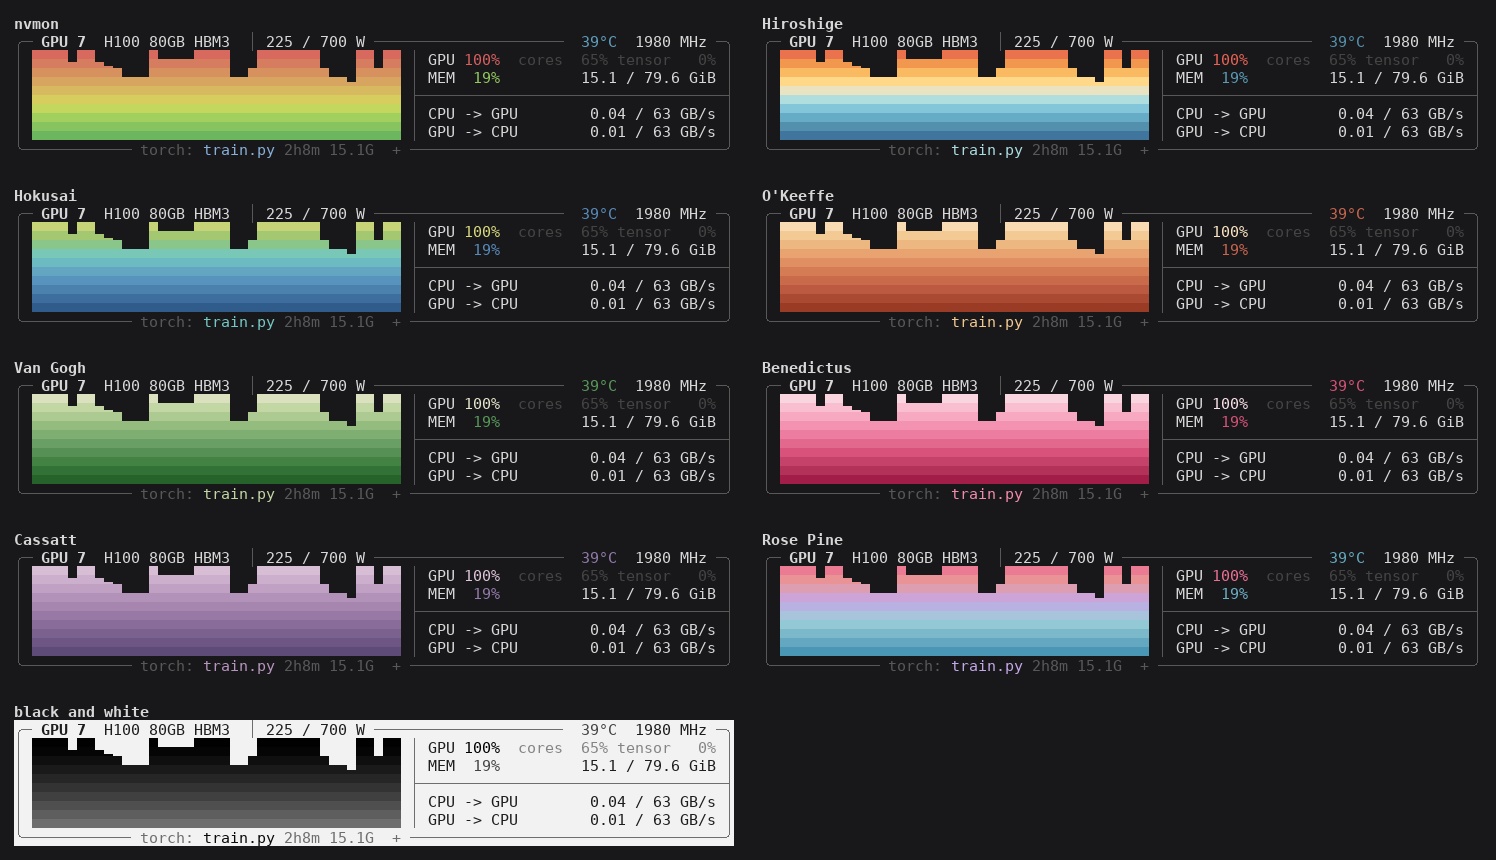
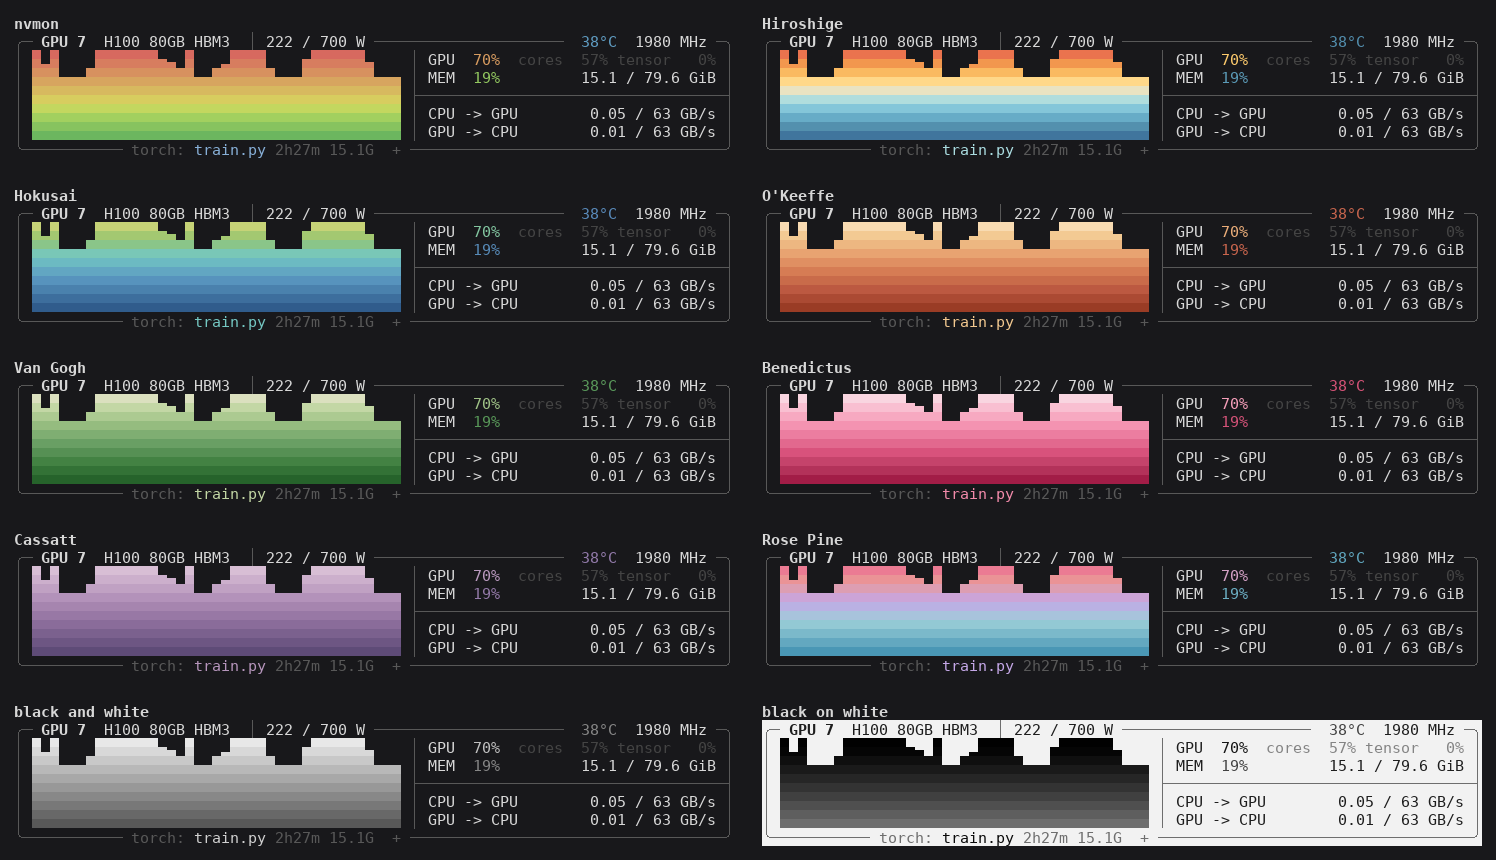
Black and white as it was, black on white a theme of its own; README: eight graphs in two columns

diff --git a/nvmon.py b/nvmon.py
@@ -83,8 +83,8 @@ def _nearest256(rgb):
 
 
 # Styles are written in 24-bit color and turned, as they are sent (restyle), into what the terminal shows:
-# 24-bit color or 256 colors, as color_mode finds; in gray, as the black and white theme has it: the GPU boxes
-# black on white (panel marks their styles with ON_PAPER), the rest gray on the terminal's own background.
+# 24-bit color or 256 colors, as color_mode finds; in gray, as the black and white themes have it, and for
+# black on white the GPU boxes on white (panel marks their styles with ON_PAPER).
 PAPER, INK = (242, 242, 242), (30, 30, 30)
 ON_PAPER = "\x1b[48;2;242;242;242m"
 COLOR_ARG = re.compile(r"\x1b\[([34])8;(?:2;(\d+);(\d+);(\d+)|5;(\d+))m")
@@ -183,10 +183,11 @@ class Theme(NamedTuple):
     temp: tuple       # style codes for 0 .. 100 °C
     accent: str
     selected: str     # the picked job: reverse video on the accent
-    gray: bool        # black on white: see restyle
+    gray: bool        # every color the gray of its lightness: see restyle
+    paper: bool       # and the GPU boxes black on white
 
 
-def theme(name, stops, accent, temp=None, gray=False):
+def theme(name, stops, accent, temp=None, gray=False, paper=False):
     """A Theme. `stops`, low to high, are (position, (r, g, b)) pairs, or "#rrggbb ..." colors, which are
     placed by how different they look (OKLab distance) so that equal steps in % look about equally big.
     Temperature takes the same colors over 30-88 °C, unless `temp` has stops of its own."""
@@ -199,7 +200,8 @@ def theme(name, stops, accent, temp=None, gray=False):
     heat_of_temp = _gradient(temp or [(30 + 0.58 * x, c) for x, c in stops])
     accent = accent if accent.startswith("\x1b") else _rgb(tuple(bytes.fromhex(accent[1:])))
     return Theme(name, tuple(map(_rgb, scale)), tuple(_rgb(_readable(c)) for c in scale),
-                 tuple(_rgb(_readable(c)) for c in heat_of_temp), accent, "\x1b[7m" + accent, gray)
+                 tuple(_rgb(_readable(c)) for c in heat_of_temp), accent, "\x1b[7m" + accent,
+                 gray or paper, paper)
 
 
 GREEN, YELLOW, ORANGE, RED = (95, 175, 95), (215, 215, 95), (215, 135, 95), (215, 95, 95)
@@ -222,8 +224,10 @@ THEMES = [
     theme("Cassatt", "#574571 #90719f #b695bc #dec5da", "#b695bc"),
     theme("Rose Pine", "#3e8fb0 #9ccfd8 #c4a7e7 #ea9a97 #eb6f92", "#c4a7e7"),
 ]
-# No hue, only lightness, black on white (see restyle): the lightest when idle, near black when busy.
-THEMES.append(theme("black and white", "#505050 #f0f0f0", "#d0d0d0", gray=True))
+# No hue, only lightness (see restyle): dark gray when idle to near white when busy; and the same black on
+# white, the lightest when idle to near black when busy.
+THEMES += [theme("black and white", "#505050 #f0f0f0", "#d0d0d0", gray=True),
+           theme("black on white", "#505050 #f0f0f0", "#d0d0d0", paper=True)]
 THEME = THEMES[0]  # the one in use, set by View.screen before it draws
 SHOWS = "truecolor"  # what the terminal shows (color_mode), set with it
 # Warnings on the top edge, the same in every theme: yellow = worth a look, orange = slowed, red = act.
@@ -1063,7 +1067,7 @@ def panel(gpu, width, height, selected=None, left="graph", scroll=(0, 0)):
     lines = [top] + body + [bottom_edge(width, split, label)]
     if faded:
         lines = [[(seg[0], FADED + (seg[1] if seg[1] != BOLD else "")) + seg[2:] for seg in line] for line in lines]
-    if THEME.gray:  # black on white, see restyle
+    if THEME.paper:  # black on white, see restyle
         lines = [[(seg[0], ON_PAPER + seg[1]) + seg[2:] for seg in line] for line in lines]
     return lines
 

diff --git a/docs/demo.py b/docs/demo.py
@@ -39,7 +39,8 @@ def numbers(view):
 
 # (file, columns, rows, what is set on the view). The cards' windows are as narrow as the cards, as a window
 # kept beside another; the numbers' window too short for all eight, the brief ones' just tall enough.
-STILLS = [("view-processes.png", 160, 31, lambda view: setattr(view, "left", "processes")),
+STILLS = [("view-graphs.png", 160, 31, lambda view: None),  # too short for eight one under the other
+          ("view-processes.png", 160, 31, lambda view: setattr(view, "left", "processes")),
           ("view-numbers.png", nvmon.CARD_W, 31, numbers),
           ("view-brief.png", nvmon.CARD_W, 8 * (nvmon.MIN_INNER_H + 2) + 2,
            lambda view: setattr(view, "left", "brief")),

diff --git a/README.md b/README.md
@@ -47,7 +47,9 @@ and the keys; a newer release, when there is one, with the command that updates 
 `v` goes through four views, `V` back. What does not fit the window scrolls (wheel, PgUp/PgDn).
 
 **Graphs**, as above: one under the other, two side by side only when they would not all fit, and in a
-small window shorter.
+small window shorter. The same eight GPUs in a window 31 lines tall:
+
+![nvmon with eight graphs in two columns](https://raw.githubusercontent.com/Han-DongHeun/nvmon/main/docs/view-graphs.png)
 
 **Processes** in the graph's place, one a line: account, run time, memory, and the command line. The
 wheel over them scrolls them up and down; tilted, or with Shift, sideways, as do ← and →.
@@ -87,7 +89,8 @@ The same job with `f`, its GPUs only:
 
 `c` goes through the themes, `C` back: nvmon's own; palettes from works by Hiroshige, Hokusai, O'Keeffe,
 Van Gogh, Bénédictus and Cassatt (as [MetBrewer](https://github.com/BlakeRMills/MetBrewer) has them);
-the [Rosé Pine](https://rosepinetheme.com) theme's; and black on white.
+the [Rosé Pine](https://rosepinetheme.com) theme's; black and white, grays as light as the colors; and
+black on white, the boxes on white, the busiest bars the darkest.
 
 ![nvmon's themes, one box in each](https://raw.githubusercontent.com/Han-DongHeun/nvmon/main/docs/themes.png)
 

diff --git a/CHANGELOG.md b/CHANGELOG.md
@@ -3,6 +3,11 @@
 What changes for you in each release. The same notes appear on the
 [releases page](https://github.com/Han-DongHeun/nvmon/releases).
 
+## Unreleased
+
+- Black and white is back as it was in 0.3.0, grays as light as the colors; black on white is a theme of
+  its own, after it.
+
 ## 0.3.1
 
 - Numbers only, and GPU and MEM only, keep their boxes one under the other, never side by side; what
